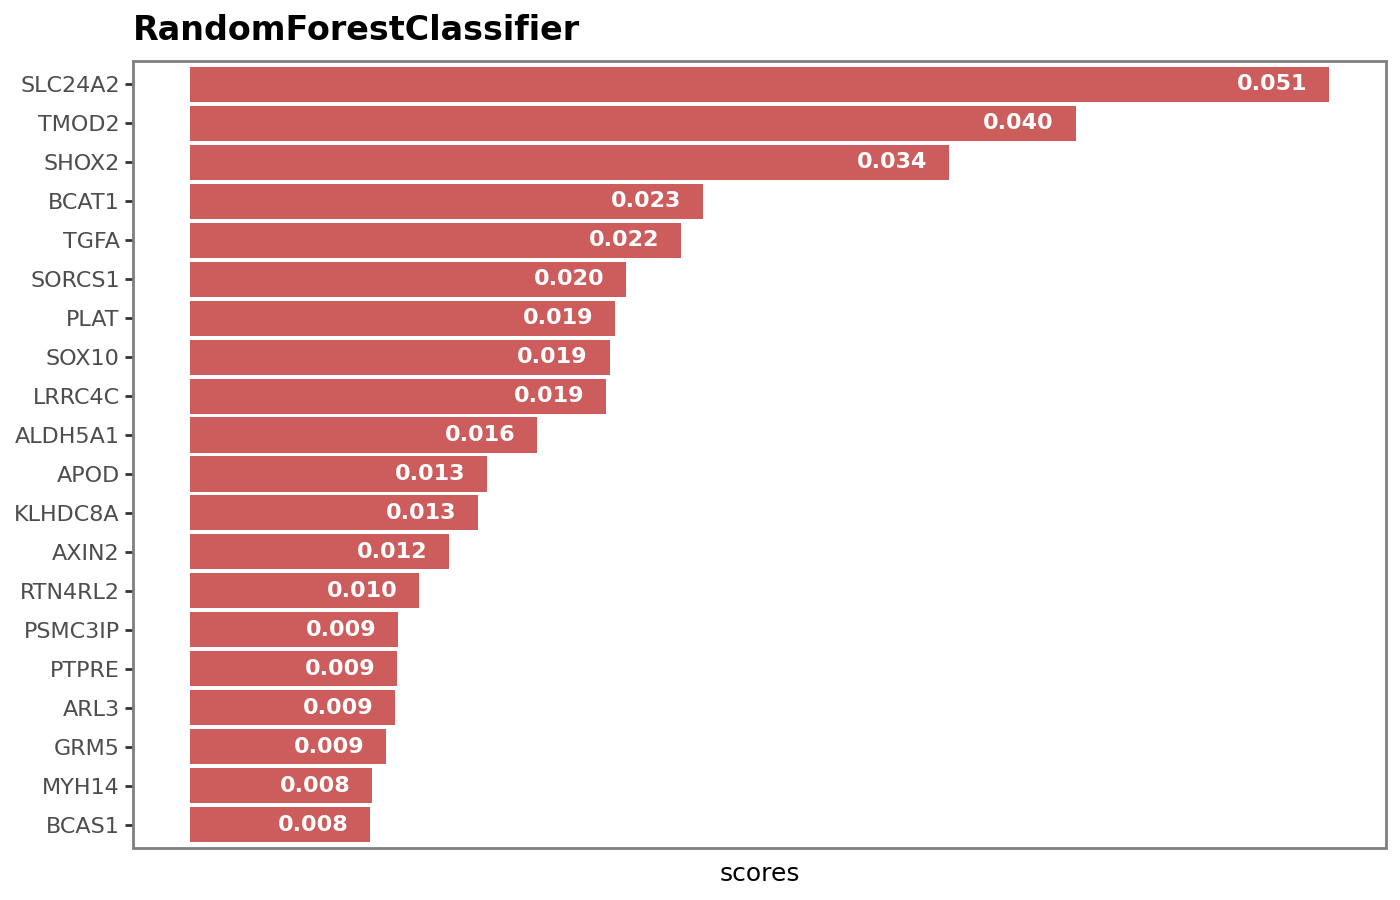
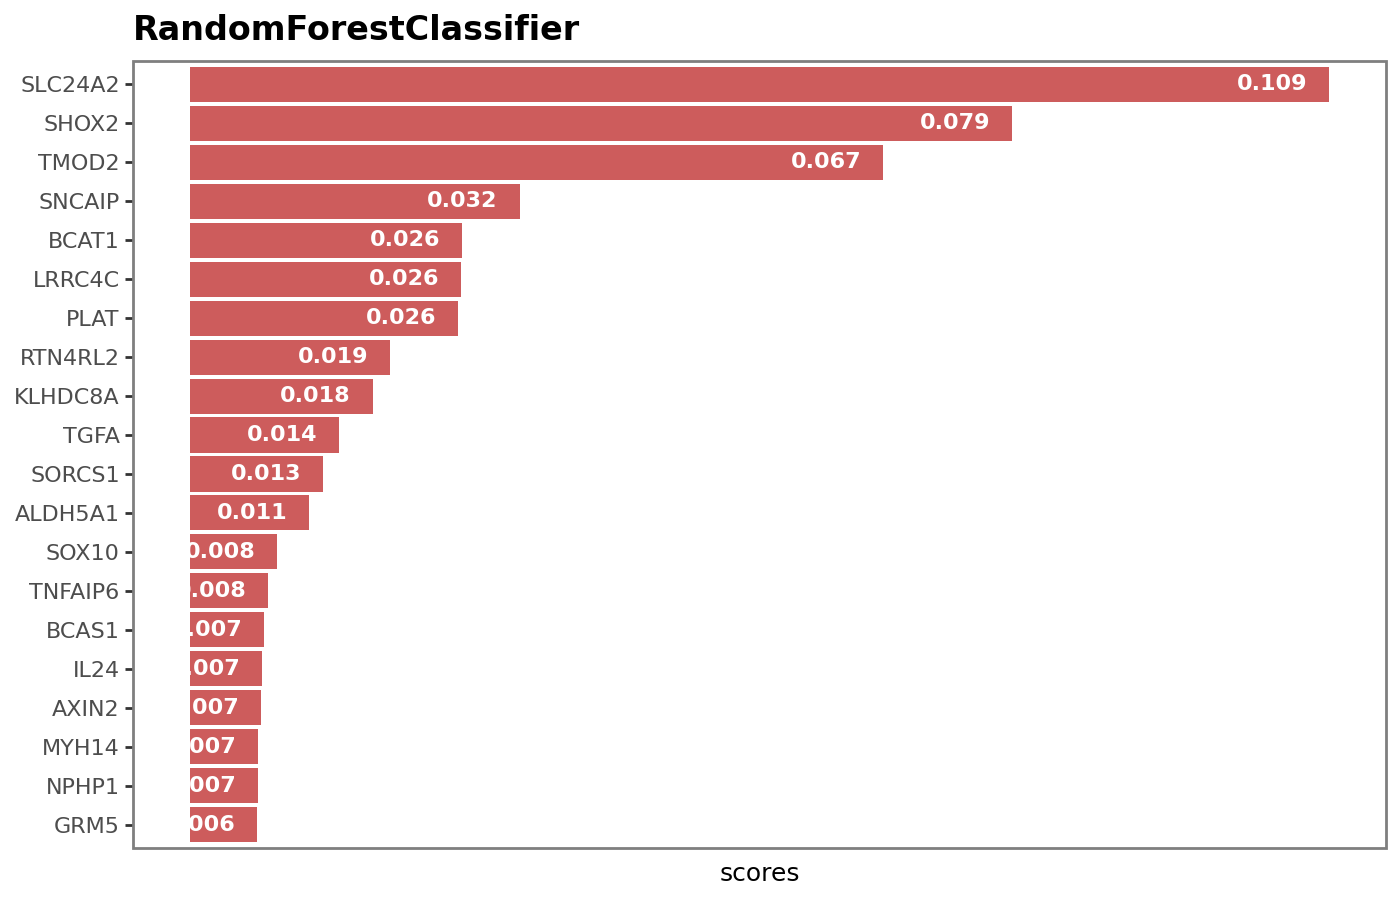
new

diff --git a/Biology/glioma/machine_learning_results.md b/Biology/glioma/machine_learning_results.md
@@ -26,7 +26,7 @@ ___Figure 1: Visualisation showing Area under the receiver's operating character
 
 ___Figure 2: Visualisation showing Area under the receiver's operating characteristics and precision-recall curves and confusion matrix for Random Forest___
 
-From the results above, both models could efficiently classify cancer and normal samples from gene expression levels with high performance recorded in all the evaluation metrics. By in-class performance, we see that out of the 24 normal samples, 1 was incorrectly identified by both models, while 3 out of the 182 cancer samples were incorrectly classified by logistic regression (LR). This transcends to 88% precision, 96% recall for normal samples for LR, and 99% precision, 98% recall and 99% F1-score for cancer samples. For RF, perfect scores were recorded for precision and recall for normal and cancer samples, respectively, and 99% precision and 96% recall for cancer and normal samples, respectively. By evaluating the number of genes selected by each model, 83 were selected by LR while 190 by RF with only 23 common genes between them. Some of these are AATK, ANXA5, CCNJL, UHRF1, YBX1, SH3TC2, and PLEKHA2.
+From the results above, both models could efficiently classify cancer and normal samples from gene expression levels with high performance recorded in all the evaluation metrics. By in-class performance, we see that out of the 24 normal samples, 1 was incorrectly identified by both models, while 3 out of the 182 cancer samples were incorrectly classified by logistic regression (LR). This transcends to 88% precision, 96% recall for normal samples for LR, and 99% precision, 98% recall and 99% F1-score for cancer samples. For RF, perfect scores were recorded for precision and recall for normal and cancer samples, respectively, and 99% precision and 96% recall for cancer and normal samples, respectively. By evaluating the number of genes selected by each model, 83 were selected by LR while 144 by RF with only 23 common genes between them. Some of these are AATK, CPLX3, RBBP7, UHRF1, YBX1, DPYSL3, and KRT19.
 
 ### Astrocyte cancer grades 
 The number of samples for each cancer grade includes 198 (G1), 166 (G2), 127 (G3), and 235 (G4). The classes were slightly imbalanced.
@@ -35,8 +35,8 @@ __Table 2: Model performance evaluation on test data__
 
 Model               |Accuracy |AUC     |Recall   |Precision |F1      |Specificity
 --------------------|---------|--------|---------|----------|--------|-----------
-Logistic Regression |0.89011  |0.978937|0.89011  |0.892612  |0.888816| 0.966227
-Random Forest       |0.879121 |0.974011|0.879121 |0.882374  |0.875654| 0.962661
+Logistic Regression |0.884615 |0.97748 |0.884615 |0.888191  |0.882421| 0.964953
+Random Forest       |0.857143 |0.972568|0.857143 |0.867143  |0.864168| 0.959284
 
 ![lr_perf_grade](imgs/ml_imgs/lr_perf_chart_grade.png)
 
@@ -47,9 +47,9 @@ ___Figure 3: Visualisation showing Area under the receiver's operating character
 
 ___Figure 4: Visualisation showing Area under the receiver's operating characteristics and precision-recall curves and confusion matrix for Random Forest by cancer grades___
 
-From Table 2, both models have performance over 85% for all the evaluation metrics. However, when we look at their performance for each cancer grade from the confusion matrix (Figures 3&4), we see that the models could distinguish grades 1&2 (G1 & G2) from other grades (G3 and G4). For instance, no samples were misclassified as G1 for LR with only 1 misclassification for RF. When we look at the number of G1 & G2 samples misclassified, we see that only 1 each of G1 was misclassified to be G2 and G4, and 2 and 3 of G1 to be G3 & G4, respectively, for LR while 1 of G1 was misclassified to be G3 and 2 of G2 to be G4, by RF. Similarly, by evaluating their performance for G3 and G4, we see that 31-38% of G3 samples were misclassified as G2 or G4, while 8-12% of G4 were misclassified as either G1, G2, or G3, by the models. The high misclassification rate for G3 could be because it lies between the transition of tumour cells from being benign to mildly aggressive and then to it spreading to other cells.
+From Table 2, both models have performance over 85% for all the evaluation metrics. However, when we look at their performance for each cancer grade from the confusion matrix (Figures 3&4), we see that the models could distinguish grades 1&2 (G1 & G2) from other grades (G3 and G4). For instance, no samples were misclassified as G1 for LR with only 2 misclassification for RF. When we look at the number of G1 & G2 samples misclassified, we see that only 2 G1 samples were misclassified to be G4 by LR. Only one G1 sample was misclassified as G3 by RF. On the other hand, 1 and 2 G2 samples were misclassified by both models to be G3 & G4, respectively. Similarly, by evaluating their performance for G3 and G4, we see that 31-50% of G3 samples were misclassified as G1, G2 or G4, while 8-11% of G4 were misclassified as either G1, G2, or G3, by the models. The high misclassification rate for G3 could be because it lies between the transition of tumour cells from being benign to mildly aggressive and then to it spreading to other cells.
 
-By default logistic regression deals with binary classes, but can be extended to more than two classes by applying a one-vs-rest technique where models are fit for each class where the positive class is encoded as 1 and the rest as 0. The number of non-zero features selected by each model for each class includes 1289, 1140, 1070, and 1189 for G1, G2, G3, and G4, respectively. By visualising in a Venn diagram (Figure 5), 12 genes were common for all grades. These include: `ACADS`, `C10orf25`, `CHCHD3`, `DLK2`, `EBAG9`, `HLX`, `MAX`, `MBD3L1`, `RBBP7`, `SLC13A4`, `TIAM2`, and `TNFSF8`, indicating that these genes could play as prognostic biomarkers for identifying cancer progression. This was further extended to find the number of common genes in both LR and RF models and from the result, 397 common genes were found out of the total 782 genes selected by RF. Figure 6 shows the top 20 genes selected by RF.
+By default logistic regression deals with binary classes, but can be extended to more than two classes by applying a one-vs-rest technique where models are fit for each class where the positive class is encoded as 1 and the rest as 0. The number of non-zero features selected by each model for each class includes 1298, 1103, 1034, and 1235 for G1, G2, G3, and G4, respectively. By visualising in a Venn diagram (Figure 5), 11 genes were common for all grades. These include: `C10orf25`, `CDC20B`, `CLIC5`, `CTNNA3`, `DLK2`, `EDARADD`, `HLX`, `ISL2`, `MAPK4`, `MBD3L1`, and `SLC13A4`, indicating that these genes could play as prognostic biomarkers for identifying cancer progression. This was further extended to find the number of common genes in both LR and RF models and from the result, 385 common genes were found out of the total 732 genes selected by RF. Figure 6 shows the top 20 genes selected by RF.
 
 ![venn_cancer_grades](imgs/ml_imgs/lr_venn_tumor_grades.png)
 
@@ -66,8 +66,8 @@ __Table 3: Model performance evaluation on test data__
 
 Model               |Accuracy |AUC     |Recall   |Precision |F1      |Specificity
 --------------------|---------|--------|---------|----------|--------|-----------
-Logistic Regression |0.91954  |0.958044|0.91954  |0.895321  |0.904553| 0.942156
-Random Forest       |0.908046 |0.959538|0.908046 |0.880247  |0.890363| 0.938274
+Logistic Regression |0.91954  |0.957765|0.91954  |0.895321  |0.904553| 0.942156
+Random Forest       |0.902299 |0.959442|0.902299 |0.873879  |0.885584| 0.921274
 
 
 From Table 3, the models were performing well overall. However, when we look at their class-level performance, we see that both models were doing badly on some cell types (mixed gliomas and oligodendrocytoma). This could be because of the huge class imbalance between them and the other cell types. However, the LR model seems to perform better than the RF model in all evaluation metrics except AUC with a slightly higher performance.
@@ -85,10 +85,14 @@ Figures 7 and 8 show the area under the receiver's operating characteristic curv
 
 To improve the sensitivity of the models to minority class samples, latent features obtained from linear discriminant analysis were added. This led to improved performance of the models on mixed glioma but higher misclassifications on astrocytoma and ependymoma cell types. Results can be found [here](images/ml_imgs/lr_lda_perf_chart_cell_type.png) and [here](images/ml_imgs/rf_lda_perf_chart_cell_type.png) for LR and RF, respectively.
 
-To distinguish between cancer types, a total of 141 was selected by LR: 68 for astrocytoma, 33 for ependymoma, 7 for mixed gliomas, and 55 for oligodendrocytoma. No common gene was found for all the cell types. Furthermore, seven overlapping genes were found between ependymoma and astrocytoma, while 15 were found for astrocytoma and oligodendrocytoma (Figure 9). Additionally, 467 genes with non-zero scores were selected by RF, with only 42 common genes with LR.
+To distinguish between cancer types, a total of 144 was selected by LR: 69 for astrocytoma, 34 for ependymoma, 7 for mixed gliomas, and 56 for oligodendrocytoma. No common gene was found for all the cell types. Furthermore, seven overlapping genes were found between ependymoma and astrocytoma, while 16 were found for astrocytoma and oligodendrocytoma and 6 for ependymoma and astrocytoma (Figure 9). Additionally, 439 genes with non-zero scores were selected by RF, with only 40 common genes with LR.
 
 ![venn_lr_cell_type](imgs/ml_imgs/lr_venn_tumor_cell_type.png)
 
 ___Figure 9: Venn diagram showing overlapping genes used by LR for each cell type___
 
-In conclusion, machine learning models have been applied to gene expression data to predict disease outcomes. From the results above, we see that predictive models can be applied to gene expression data to identify diagnostic and prognostic biomarkers that can help to correctly distinguish between cancer and normal and identify cancer cell types and grades. Further analysis needs to be done to validate the findings. One is by identifying hub genes that affect downstream biological processes. Another is by conducting experimental studies to validate the effect of these biomarkers on biological processes, their molecular function, and key pathways that are affected by their dysregulation.
+# Summary
+
+The expression of genes in the human cell can be dysregulated in disease outcomes due to genetic and non-genetic factors. Here, we identified diagnostic and prognostic biomarkers that can act as potential therapeutic targets using differential gene expression analysis and machine learning techniques. We identified hub genes that whose dysregulation may affect downward biological processes. Similarly, we see that machine learning models can help to identify biomarkers with high predictive power to distinguish between various disease outcomes. From result, models could separate cancer from normal samples with high accuracy. Also, they could accurately distinguish between different cancer grades and types with some difficulty at distinguishing between some cancer cell types.
+
+From these results, we see that machine learning models show great potential at predicting disease outcomes using gene expression data. However, further analysis needs to be done to validate the findings. One step is by identifying hub genes whose mutations affect downstream biological processes. Another is by conducting experimental studies to validate the effect of these biomarkers on biological processes, their molecular function, and key pathways that are affected by their dysregulation and also by designing drug molecules that can potentially target them for therapeutic interventions.
